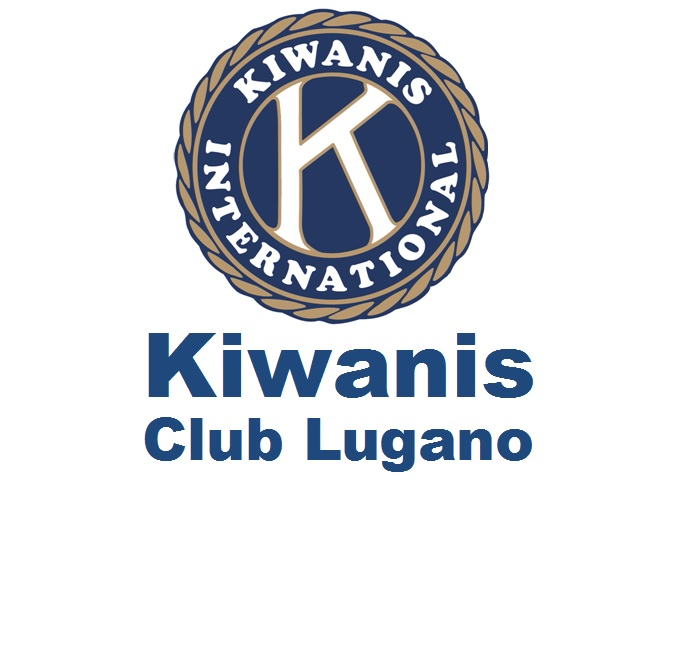
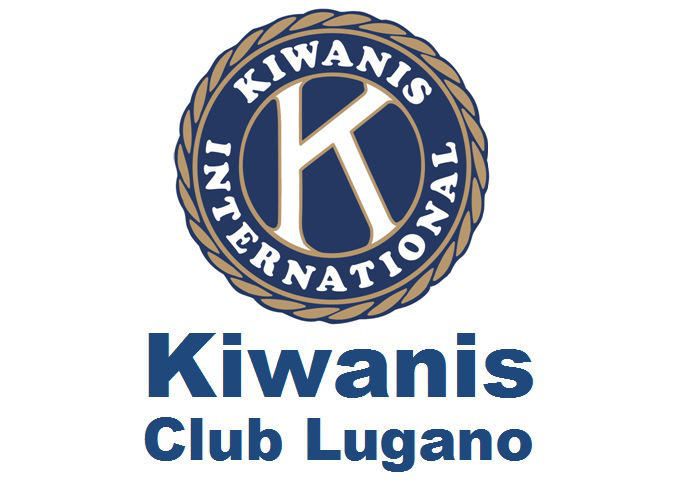
Site updated to bde91f7

Changed region(s): [[0.1831, 0.0, 0.7936, 0.96]]

diff --git a/aboutus.html b/aboutus.html
@@ -107,16 +107,6 @@
     <p>Gli accompagnatori dei ragazzi alla scoperta delle tecnologie</p>
 
     <div class="row">
-        <div class="team-element col-xs-12 col-sm-6 col-md-4 col-lg-3">
-            <img src="images/mentors/JessicaBarbatti.png" onmouseover="this.src='images/mentors/JessicaBarbatti.png'" onmouseout="this.src='images/mentors/JessicaBarbatti.png'" alt="Jessica Barbatti" class="img-circle" height="100px" width="100px">
-            <div class="team-name">Jessica Barbatti</div>
-            <div class="team-description">
-                Sono nata nel 1992. Dopo aver frequentato le Commerciali di Chiasso e dopo aver fatto un'esperienza all'estero (Brighton, Inghilterra) mi sono iscritta alla SSIG di Bellinzona, attualmente frequento il secondo anno. Le mie passioni sono Liguabue, Laura Pausini e ballare latino americano.
-                <div class="team-social">
-                    <div class="tweet"><a href="https://twitter.com/" target="_blank"></a></div>
-                </div>
-            </div>
-        </div>
 
         <div class="team-element col-xs-12 col-sm-6 col-md-4 col-lg-3">
             <img src="/images/mentors/CelestinoBellone.jpg" onmouseover="this.src='/images/mentors/CelestinoBellone.jpg'" onmouseout="this.src='/images/mentors/CelestinoBellone.jpg'" alt="Celestino Bellone" class="img-circle" height="100px" width="100px">
@@ -274,10 +264,12 @@
         </div>
 
         <div class="team-element col-xs-12 col-sm-6 col-md-4 col-lg-3">
-            <!--<img src="images/mentors/JessicaBarbatti.png" onmouseover="this.src='images/mentors/JessicaBarbatti.png'" onmouseout="this.src='images/mentors/JessicaBarbatti.png'" alt="Jessica Barbatti" class="img-circle" height="100px" width="100px">!-->
+           <img src="images/mentors/Alfio_Lazzaro.jpg" alt="Alfio Lazzaro" class="img-circle" height="100px" width="100px">
             <div class="team-name">Alfio Lazzaro</div>
             <div class="team-description">
-                <!-- Sono.. !-->
+                La curiosità per ciò che è scienza e tecnologia è stata la mia passione fin da quando ho memoria. La fisica sperimentale mi ha permesso di dare seguito a questa passione, permettendomi di studiare in alcuni dei grandi laboratori di fisica in giro per il mondo.
+                La mia sfida è sempre stata quella di sviluppare e programmare qualsiasi tipo di dispositivo elettronico allo scopo di automatizzare lo svolgimento di un determinato compito nel più breve tempo possibile.
+                Tale e tanto è stato il coinvolgimento da farne il mio lavoro attuale, in tre parole: sviluppare, programmare, ottimizzare.
                 <div class="team-social">
                     <div class="tweet"><a href="https://twitter.com/" target="_blank"></a></div>
                 </div>
@@ -299,7 +291,10 @@
             <img src="images/mentors/SilviaMarcellini.jpg" onmouseover="this.src='images/mentors/SilviaMarcellini.jpg'" onmouseout="this.src='images/mentors/SilviaMarcellini.jpg'" alt="Silvia Marcellini" class="img-circle" height="100px" width="100px">
             <div class="team-name">Silvia Marcellini</div>
             <div class="team-description">
-
+                Sono una grafica web dal 1996. A quei tempi usavo Word per realizzare pagine web e non sapevo disegnare neanche un pallino 3d.
+                Poi ho iniziato con Front Page, Dreamveaver, Photoshop e Fireworks, Illustrator, Freehand, Flash per le animazioni e molto più in là Expression Blend, Web e Design per Silverlight, Visual Studio poi ancora Inkscape e Gimp.
+                Ho realizzato siti, giochi, chat, forum, blog, newsletter, banner, loghi, ecc. Ho collaborato attivamente con Macromedia, Adobe, Microsoft e molti altri.
+                Non ho mai associato il computer al gioco passivo. Chi usa il computer come uno strumento per realizzare quello che ha già dentro di sé è inevitabile che potenzi le proprie capacità e allarghi le proprie vedute.
                 <div class="team-social">
                     <div class="tweet"><a href="https://twitter.com/" target="_blank"></a></div>
                 </div>
@@ -385,10 +380,15 @@
         </div>
 
         <div class="team-element col-xs-12 col-sm-6 col-md-4 col-lg-3">
-            <!--<img src="images/mentors/JessicaBarbatti.png" onmouseover="this.src='images/mentors/JessicaBarbatti.png'" onmouseout="this.src='images/mentors/JessicaBarbatti.png'" alt="Jessica Barbatti" class="img-circle" height="100px" width="100px">!-->
+            <img src="images/mentors/Silvia_Rovati.jpg" alt="Silvia Rovati" class="img-circle" height="100px" width="100px">
             <div class="team-name">Silvia Rovati</div>
             <div class="team-description">
-                <!-- Sono.. !-->
+                Mi chiamo Silvia e faccio la mamma acrobata di due splendidi bambini.
+
+                Mi sono laureata al Politecnico di Milano in Ingegneria Elettronica verso la fine dello scorso millennio.
+                Per circa una decina di anni mi sono occupata di Test Automation e di Performance Test nell’ambito delle Telecomunicazioni.
+                Dal 2008 mi sono trasferita a Lugano, dove mi sono occupata nell’ambiente bancario prima di test management e attualmente di Piattaforme di Trading.
+                Trovo l’iniziativa di Ated4Kids una bellissima opportunità per avvicinare i piu’ piccoli al fantastico mondo della programmazione, rendendolo meno misterioso e inavvicinabile.
                 <div class="team-social">
                     <div class="tweet"><a href="https://twitter.com/" target="_blank"></a></div>
                 </div>
@@ -462,21 +462,17 @@
     </div>
     <div class="row ">
         <img src="images/sponsor/OmniBus-logo.png" class="well col-xs-10 col-xs-offset-1 col-sm-6 col-sm-offset-0"/>
+        <img src="images/sponsor/ideamix.png" class="well col-xs-10 col-xs-offset-1 col-sm-6 col-sm-offset-0"/>
     </div>
     <div class="row ">
         <img src="images/sponsor/oracle.jpeg" class="well col-xs-10 col-xs-offset-1 col-sm-6 col-sm-offset-0"/>
         <img src="images/sponsor/BPS.jpg" class="well col-xs-10 col-xs-offset-1 col-sm-6 col-sm-offset-0"/>
     </div>
     <div class="row ">
-
-        <img src="images/sponsor/ideamix.png" class="well col-xs-10 col-xs-offset-1 col-sm-6 col-sm-offset-0"/>
-    </div>
-    <div class="row ">
         <h4> associazioni e enti:</h4><br/>
-        <img src="images/sponsor/SUPSI.jpg" class="well col-xs-8 col-xs-offset-2 col-sm-3 "/>
-        <img src="images/sponsor/LogoAgire_Finale.jpg" class="well col-xs-8 col-xs-offset-2 col-sm-3  "/>
-        <img src="images/sponsor/swiss-engineering-ti.jpg" class="well col-xs-8 col-xs-offset-2 col-sm-3 "/>
-        <img src="/images/sponsor/atst.gif" class="well col-xs-8 col-xs-offset-2 col-sm-3 "/>
+        <img src="images/sponsor/SUPSI.jpg" class="well col-xs-8 col-xs-offset-2 col-sm-4 col-sm-offset-0"/>
+        <img src="images/sponsor/LogoAgire_Finale.jpg" class="well col-xs-8 col-xs-offset-2 col-sm-4  col-sm-offset-0"/>
+        <img src="/images/sponsor/atst.gif" class="well col-xs-8 col-xs-offset-2 col-sm-4  col-sm-offset-0"/>
     </div>
     <div class="row ">
         <h4> sostenitori:</h4><br/>
@@ -519,7 +515,7 @@
             <div class="row">
                 <h1>Sponsor principali</h1>
                 <ul class="list-inline">
-                    <li><div class="logo"><img src="images/sponsor/tecnoprogetti.png" width="150px"/></div></li>
+                    <li><div class="logo"><img src="images/sponsor/Kiwanis.jpg" width="150px"/></div></li>
                     <li><div class="logo"><img src="images/sponsor/OmniBus-logo.png" width="150px"/> </div></li>
                     <li><div class="logo"><img src="images/sponsor/logo_mtf.jpg" width="150px"/> </div></li>
                 </ul>
@@ -545,6 +541,7 @@
         </div>
     </div>
 </div>
+
 
     
 

diff --git a/en/aboutus.html b/en/aboutus.html
@@ -107,16 +107,6 @@
     <p>Gli accompagnatori dei ragazzi alla scoperta delle tecnologie</p>
 
     <div class="row">
-        <div class="team-element col-xs-12 col-sm-6 col-md-4 col-lg-3">
-            <img src="images/mentors/JessicaBarbatti.png" onmouseover="this.src='images/mentors/JessicaBarbatti.png'" onmouseout="this.src='images/mentors/JessicaBarbatti.png'" alt="Jessica Barbatti" class="img-circle" height="100px" width="100px">
-            <div class="team-name">Jessica Barbatti</div>
-            <div class="team-description">
-                Sono nata nel 1992. Dopo aver frequentato le Commerciali di Chiasso e dopo aver fatto un'esperienza all'estero (Brighton, Inghilterra) mi sono iscritta alla SSIG di Bellinzona, attualmente frequento il secondo anno. Le mie passioni sono Liguabue, Laura Pausini e ballare latino americano.
-                <div class="team-social">
-                    <div class="tweet"><a href="https://twitter.com/" target="_blank"></a></div>
-                </div>
-            </div>
-        </div>
 
         <div class="team-element col-xs-12 col-sm-6 col-md-4 col-lg-3">
             <img src="/images/mentors/CelestinoBellone.jpg" onmouseover="this.src='/images/mentors/CelestinoBellone.jpg'" onmouseout="this.src='/images/mentors/CelestinoBellone.jpg'" alt="Celestino Bellone" class="img-circle" height="100px" width="100px">
@@ -274,10 +264,12 @@
         </div>
 
         <div class="team-element col-xs-12 col-sm-6 col-md-4 col-lg-3">
-            <!--<img src="images/mentors/JessicaBarbatti.png" onmouseover="this.src='images/mentors/JessicaBarbatti.png'" onmouseout="this.src='images/mentors/JessicaBarbatti.png'" alt="Jessica Barbatti" class="img-circle" height="100px" width="100px">!-->
+           <img src="images/mentors/Alfio_Lazzaro.jpg" alt="Alfio Lazzaro" class="img-circle" height="100px" width="100px">
             <div class="team-name">Alfio Lazzaro</div>
             <div class="team-description">
-                <!-- Sono.. !-->
+                La curiosità per ciò che è scienza e tecnologia è stata la mia passione fin da quando ho memoria. La fisica sperimentale mi ha permesso di dare seguito a questa passione, permettendomi di studiare in alcuni dei grandi laboratori di fisica in giro per il mondo.
+                La mia sfida è sempre stata quella di sviluppare e programmare qualsiasi tipo di dispositivo elettronico allo scopo di automatizzare lo svolgimento di un determinato compito nel più breve tempo possibile.
+                Tale e tanto è stato il coinvolgimento da farne il mio lavoro attuale, in tre parole: sviluppare, programmare, ottimizzare.
                 <div class="team-social">
                     <div class="tweet"><a href="https://twitter.com/" target="_blank"></a></div>
                 </div>
@@ -299,7 +291,10 @@
             <img src="images/mentors/SilviaMarcellini.jpg" onmouseover="this.src='images/mentors/SilviaMarcellini.jpg'" onmouseout="this.src='images/mentors/SilviaMarcellini.jpg'" alt="Silvia Marcellini" class="img-circle" height="100px" width="100px">
             <div class="team-name">Silvia Marcellini</div>
             <div class="team-description">
-
+                Sono una grafica web dal 1996. A quei tempi usavo Word per realizzare pagine web e non sapevo disegnare neanche un pallino 3d.
+                Poi ho iniziato con Front Page, Dreamveaver, Photoshop e Fireworks, Illustrator, Freehand, Flash per le animazioni e molto più in là Expression Blend, Web e Design per Silverlight, Visual Studio poi ancora Inkscape e Gimp.
+                Ho realizzato siti, giochi, chat, forum, blog, newsletter, banner, loghi, ecc. Ho collaborato attivamente con Macromedia, Adobe, Microsoft e molti altri.
+                Non ho mai associato il computer al gioco passivo. Chi usa il computer come uno strumento per realizzare quello che ha già dentro di sé è inevitabile che potenzi le proprie capacità e allarghi le proprie vedute.
                 <div class="team-social">
                     <div class="tweet"><a href="https://twitter.com/" target="_blank"></a></div>
                 </div>
@@ -385,10 +380,15 @@
         </div>
 
         <div class="team-element col-xs-12 col-sm-6 col-md-4 col-lg-3">
-            <!--<img src="images/mentors/JessicaBarbatti.png" onmouseover="this.src='images/mentors/JessicaBarbatti.png'" onmouseout="this.src='images/mentors/JessicaBarbatti.png'" alt="Jessica Barbatti" class="img-circle" height="100px" width="100px">!-->
+            <img src="images/mentors/Silvia_Rovati.jpg" alt="Silvia Rovati" class="img-circle" height="100px" width="100px">
             <div class="team-name">Silvia Rovati</div>
             <div class="team-description">
-                <!-- Sono.. !-->
+                Mi chiamo Silvia e faccio la mamma acrobata di due splendidi bambini.
+
+                Mi sono laureata al Politecnico di Milano in Ingegneria Elettronica verso la fine dello scorso millennio.
+                Per circa una decina di anni mi sono occupata di Test Automation e di Performance Test nell’ambito delle Telecomunicazioni.
+                Dal 2008 mi sono trasferita a Lugano, dove mi sono occupata nell’ambiente bancario prima di test management e attualmente di Piattaforme di Trading.
+                Trovo l’iniziativa di Ated4Kids una bellissima opportunità per avvicinare i piu’ piccoli al fantastico mondo della programmazione, rendendolo meno misterioso e inavvicinabile.
                 <div class="team-social">
                     <div class="tweet"><a href="https://twitter.com/" target="_blank"></a></div>
                 </div>
@@ -462,21 +462,17 @@
     </div>
     <div class="row ">
         <img src="images/sponsor/OmniBus-logo.png" class="well col-xs-10 col-xs-offset-1 col-sm-6 col-sm-offset-0"/>
+        <img src="images/sponsor/ideamix.png" class="well col-xs-10 col-xs-offset-1 col-sm-6 col-sm-offset-0"/>
     </div>
     <div class="row ">
         <img src="images/sponsor/oracle.jpeg" class="well col-xs-10 col-xs-offset-1 col-sm-6 col-sm-offset-0"/>
         <img src="images/sponsor/BPS.jpg" class="well col-xs-10 col-xs-offset-1 col-sm-6 col-sm-offset-0"/>
     </div>
     <div class="row ">
-
-        <img src="images/sponsor/ideamix.png" class="well col-xs-10 col-xs-offset-1 col-sm-6 col-sm-offset-0"/>
-    </div>
-    <div class="row ">
         <h4> associazioni e enti:</h4><br/>
-        <img src="images/sponsor/SUPSI.jpg" class="well col-xs-8 col-xs-offset-2 col-sm-3 "/>
-        <img src="images/sponsor/LogoAgire_Finale.jpg" class="well col-xs-8 col-xs-offset-2 col-sm-3  "/>
-        <img src="images/sponsor/swiss-engineering-ti.jpg" class="well col-xs-8 col-xs-offset-2 col-sm-3 "/>
-        <img src="/images/sponsor/atst.gif" class="well col-xs-8 col-xs-offset-2 col-sm-3 "/>
+        <img src="images/sponsor/SUPSI.jpg" class="well col-xs-8 col-xs-offset-2 col-sm-4 col-sm-offset-0"/>
+        <img src="images/sponsor/LogoAgire_Finale.jpg" class="well col-xs-8 col-xs-offset-2 col-sm-4  col-sm-offset-0"/>
+        <img src="/images/sponsor/atst.gif" class="well col-xs-8 col-xs-offset-2 col-sm-4  col-sm-offset-0"/>
     </div>
     <div class="row ">
         <h4> sostenitori:</h4><br/>
@@ -519,7 +515,7 @@
             <div class="row">
                 <h1>Sponsor principali</h1>
                 <ul class="list-inline">
-                    <li><div class="logo"><img src="images/sponsor/tecnoprogetti.png" width="150px"/></div></li>
+                    <li><div class="logo"><img src="images/sponsor/Kiwanis.jpg" width="150px"/></div></li>
                     <li><div class="logo"><img src="images/sponsor/OmniBus-logo.png" width="150px"/> </div></li>
                     <li><div class="logo"><img src="images/sponsor/logo_mtf.jpg" width="150px"/> </div></li>
                 </ul>
@@ -545,6 +541,7 @@
         </div>
     </div>
 </div>
+
 
     
 

diff --git a/en/index.html b/en/index.html
@@ -186,7 +186,7 @@
             <div class="row">
                 <h1>Sponsor principali</h1>
                 <ul class="list-inline">
-                    <li><div class="logo"><img src="images/sponsor/tecnoprogetti.png" width="150px"/></div></li>
+                    <li><div class="logo"><img src="images/sponsor/Kiwanis.jpg" width="150px"/></div></li>
                     <li><div class="logo"><img src="images/sponsor/OmniBus-logo.png" width="150px"/> </div></li>
                     <li><div class="logo"><img src="images/sponsor/logo_mtf.jpg" width="150px"/> </div></li>
                 </ul>
@@ -212,6 +212,7 @@
         </div>
     </div>
 </div>
+
 
 
 </div> <!-- /container -->

diff --git a/index.html b/index.html
@@ -186,7 +186,7 @@
             <div class="row">
                 <h1>Sponsor principali</h1>
                 <ul class="list-inline">
-                    <li><div class="logo"><img src="images/sponsor/tecnoprogetti.png" width="150px"/></div></li>
+                    <li><div class="logo"><img src="images/sponsor/Kiwanis.jpg" width="150px"/></div></li>
                     <li><div class="logo"><img src="images/sponsor/OmniBus-logo.png" width="150px"/> </div></li>
                     <li><div class="logo"><img src="images/sponsor/logo_mtf.jpg" width="150px"/> </div></li>
                 </ul>
@@ -212,6 +212,7 @@
         </div>
     </div>
 </div>
+
 
 
 </div> <!-- /container -->

diff --git a/en/formats.html b/en/formats.html
@@ -155,7 +155,7 @@
             <div class="row">
                 <h1>Sponsor principali</h1>
                 <ul class="list-inline">
-                    <li><div class="logo"><img src="images/sponsor/tecnoprogetti.png" width="150px"/></div></li>
+                    <li><div class="logo"><img src="images/sponsor/Kiwanis.jpg" width="150px"/></div></li>
                     <li><div class="logo"><img src="images/sponsor/OmniBus-logo.png" width="150px"/> </div></li>
                     <li><div class="logo"><img src="images/sponsor/logo_mtf.jpg" width="150px"/> </div></li>
                 </ul>
@@ -181,6 +181,7 @@
         </div>
     </div>
 </div>
+
 
     
 

diff --git a/en/tecnologie.html b/en/tecnologie.html
@@ -135,7 +135,7 @@
             <div class="row">
                 <h1>Sponsor principali</h1>
                 <ul class="list-inline">
-                    <li><div class="logo"><img src="images/sponsor/tecnoprogetti.png" width="150px"/></div></li>
+                    <li><div class="logo"><img src="images/sponsor/Kiwanis.jpg" width="150px"/></div></li>
                     <li><div class="logo"><img src="images/sponsor/OmniBus-logo.png" width="150px"/> </div></li>
                     <li><div class="logo"><img src="images/sponsor/logo_mtf.jpg" width="150px"/> </div></li>
                 </ul>
@@ -161,6 +161,7 @@
         </div>
     </div>
 </div>
+
 
     
 

diff --git a/formats.html b/formats.html
@@ -155,7 +155,7 @@
             <div class="row">
                 <h1>Sponsor principali</h1>
                 <ul class="list-inline">
-                    <li><div class="logo"><img src="images/sponsor/tecnoprogetti.png" width="150px"/></div></li>
+                    <li><div class="logo"><img src="images/sponsor/Kiwanis.jpg" width="150px"/></div></li>
                     <li><div class="logo"><img src="images/sponsor/OmniBus-logo.png" width="150px"/> </div></li>
                     <li><div class="logo"><img src="images/sponsor/logo_mtf.jpg" width="150px"/> </div></li>
                 </ul>
@@ -181,6 +181,7 @@
         </div>
     </div>
 </div>
+
 
     
 

diff --git a/tecnologie.html b/tecnologie.html
@@ -135,7 +135,7 @@
             <div class="row">
                 <h1>Sponsor principali</h1>
                 <ul class="list-inline">
-                    <li><div class="logo"><img src="images/sponsor/tecnoprogetti.png" width="150px"/></div></li>
+                    <li><div class="logo"><img src="images/sponsor/Kiwanis.jpg" width="150px"/></div></li>
                     <li><div class="logo"><img src="images/sponsor/OmniBus-logo.png" width="150px"/> </div></li>
                     <li><div class="logo"><img src="images/sponsor/logo_mtf.jpg" width="150px"/> </div></li>
                 </ul>
@@ -161,6 +161,7 @@
         </div>
     </div>
 </div>
+
 
     
 
